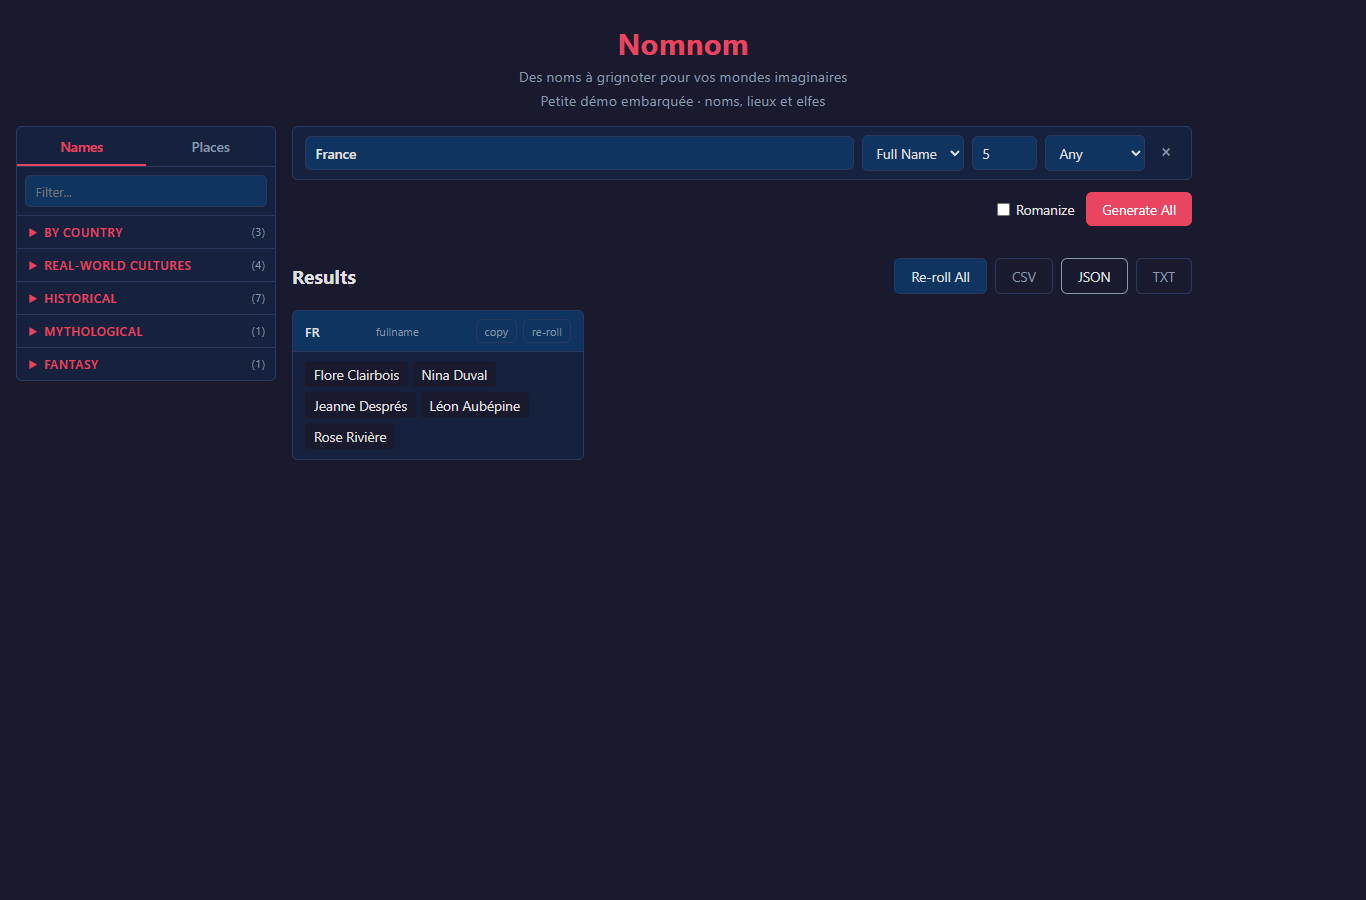
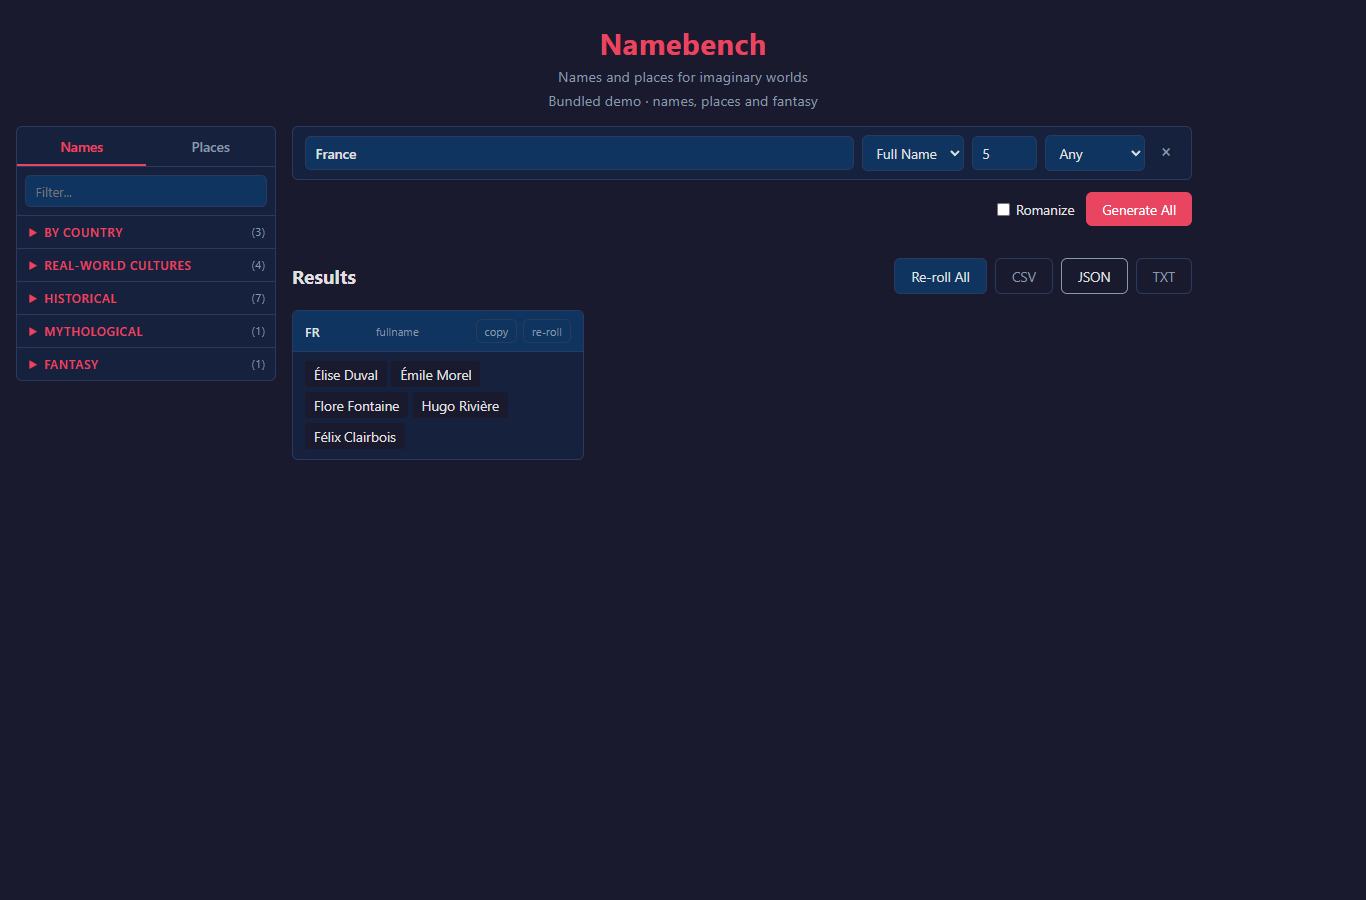
Rename project to Namebench and use English throughout

Changed region(s): [[0.369, 0.0311, 0.6149, 0.1244], [0.2152, 0.4044, 0.369, 0.4978]]

diff --git a/webapp/templates/index.html b/webapp/templates/index.html
@@ -3,15 +3,15 @@
 <head>
 <meta charset="UTF-8">
 <meta name="viewport" content="width=device-width, initial-scale=1.0">
-<title>Nomnom</title>
+<title>Namebench</title>
 <link rel="stylesheet" href="/static/style.css">
 </head>
 <body>
 
 <header>
-  <h1>Nomnom</h1>
-  <p class="subtitle">Des noms à grignoter pour vos mondes imaginaires</p>
-<p class="subtitle">{% if demo %}Petite démo embarquée · noms, lieux et elfes{% else %}Base mondiale locale{% endif %}</p>
+  <h1>Namebench</h1>
+  <p class="subtitle">Names and places for imaginary worlds</p>
+<p class="subtitle">{% if demo %}Bundled demo · names, places and fantasy{% else %}Local world dataset{% endif %}</p>
 </header>
 
 <div class="app-shell">

diff --git a/tests/test_demo.py b/tests/test_demo.py
@@ -53,7 +53,7 @@ def test_bulk_and_transliteration(demo):
 def test_web_catalogue_and_generation(demo):
     app = create_app(demo, demo=True)
     client = app.test_client()
-    assert b"Nomnom" in client.get("/").data
+    assert b"Namebench" in client.get("/").data
     catalog = client.get("/api/catalog").get_json()
     assert {d["id"] for d in catalog["domains"]} == {"names", "places"}
     for domain in catalog["domains"]:
@@ -97,7 +97,7 @@ def test_unknown_style_does_not_crash_batch(demo):
 
 def test_missing_database_has_actionable_error(tmp_path):
     configure_database(tmp_path / "absent.db")
-    with pytest.raises(ValueError, match="nomnom demo"):
+    with pytest.raises(ValueError, match="namebench demo"):
         generate("FR")
     assert not (tmp_path / "absent.db").exists()
 
@@ -105,7 +105,7 @@ def test_missing_database_has_actionable_error(tmp_path):
 def test_full_build_honours_database_override(tmp_path, monkeypatch):
     import namegen.importers as importers
     destination = tmp_path / "new" / "names.db"
-    monkeypatch.setenv("NOMNOM_DB_PATH", str(destination))
+    monkeypatch.setenv("NAMEBENCH_DB_PATH", str(destination))
     for name in ("import_curated", "import_fantasy", "import_forebears",
                  "import_philipperemy", "import_geonames"):
         monkeypatch.setattr(importers, name, lambda db, data_dir: None)

diff --git a/namegen/demo.py b/namegen/demo.py
@@ -37,17 +37,17 @@ def build_demo(path):
 
 
 def main(argv=None):
-    parser = argparse.ArgumentParser(prog="nomnom demo")
+    parser = argparse.ArgumentParser(prog="namebench demo")
     parser.add_argument("--port", type=int, default=5001)
     parser.add_argument("--database", type=Path, help="Use a full database instead of the bundled demo")
-    parser.add_argument("--demo-database", type=Path, default=Path.home() / ".nomnom" / "demo-v1.db")
+    parser.add_argument("--demo-database", type=Path, default=Path.home() / ".namebench" / "demo-v1.db")
     args = parser.parse_args(argv)
     path = args.database.resolve() if args.database else build_demo(args.demo_database)
     if not path.is_file():
         parser.error(f"Database not found: {path}")
     from webapp.app import create_app
     app = create_app(path, demo=args.database is None)
-    print(f"Nomnom: http://127.0.0.1:{args.port} ({'demo' if args.database is None else 'full database'})")
+    print(f"Namebench: http://127.0.0.1:{args.port} ({'demo' if args.database is None else 'full database'})")
     app.run(host="127.0.0.1", port=args.port, debug=False, threaded=False)
 
 

diff --git a/namegen/cli.py b/namegen/cli.py
@@ -52,7 +52,7 @@ def cmd_stats(args):
 
     db = NameDB()
     if not db.db_path.is_file():
-        raise SystemExit("Database missing. Start with `nomnom demo`.")
+        raise SystemExit("Database missing. Start with `namebench demo`.")
     stats = db.stats()
     print("Database statistics:")
     for table, count in stats.items():
@@ -116,7 +116,8 @@ def main():
         if hasattr(stream, "reconfigure"):
             stream.reconfigure(encoding="utf-8")
     parser = argparse.ArgumentParser(
-        description="RPG Name Generator — World-Building Onomastics Engine",
+        prog="namebench",
+        description="Namebench — personal names and place names for imaginary worlds",
     )
 
     # Mode flags

diff --git a/namegen/api.py b/namegen/api.py
@@ -39,8 +39,8 @@ def _get_registry() -> StyleRegistry:
         if _db is None:
             _db = NameDB()
         if not _db.db_path.is_file():
-            raise ValueError("Name database missing. Run `nomnom demo` for the bundled demo, "
-                             "or build the full database with `nomnom --build`.")
+            raise ValueError("Name database missing. Run `namebench demo` for the bundled demo, "
+                             "or build the full database with `namebench --build`.")
         zones = OnomasticResolver()
         _catalog = Catalog(_db, zones)
         _registry = StyleRegistry(_db, zones, _catalog)

diff --git a/namegen/importers/__init__.py b/namegen/importers/__init__.py
@@ -13,11 +13,11 @@ def build_all(db_path=None, data_dir=None):
     import os
     from namegen.db import NameDB, DB_PATH
 
-    db_path = Path(db_path or os.environ.get("NOMNOM_DB_PATH") or DB_PATH).expanduser().resolve()
+    db_path = Path(db_path or os.environ.get("NAMEBENCH_DB_PATH") or DB_PATH).expanduser().resolve()
     if db_path.exists():
         raise FileExistsError(
             f"Refusing to rebuild an existing database: {db_path}. "
-            "Set NOMNOM_DB_PATH to a new file."
+            "Set NAMEBENCH_DB_PATH to a new file."
         )
     data_dir = Path(data_dir) if data_dir else db_path.parent.parent
 

diff --git a/namegen/db.py b/namegen/db.py
@@ -65,7 +65,7 @@ class NameDB:
     """Unified access to all name data stored in SQLite."""
 
     def __init__(self, db_path: Path | str | None = None):
-        self.db_path = Path(db_path or os.environ.get("NOMNOM_DB_PATH") or DB_PATH).expanduser().resolve()
+        self.db_path = Path(db_path or os.environ.get("NAMEBENCH_DB_PATH") or DB_PATH).expanduser().resolve()
         self._conn: Optional[sqlite3.Connection] = None
 
     @property

diff --git a/namegen.py b/namegen.py
@@ -1,4 +1,4 @@
-"""Compatibility entry point; installed command: nomnom."""
+"""Compatibility entry point; installed command: namebench."""
 from namegen.cli import main
 
 if __name__ == "__main__":

diff --git a/webapp/app.py b/webapp/app.py
@@ -1,4 +1,4 @@
-"""Nomnom local web application."""
+"""Namebench local web application."""
 from __future__ import annotations
 
 from flask import Flask, jsonify, request, render_template

diff --git a/webapp/__init__.py b/webapp/__init__.py
@@ -1,1 +1,1 @@
-"""Nomnom local browser application."""
+"""Namebench local browser application."""

diff --git a/README.md b/README.md
@@ -1,13 +1,12 @@
-# Nomnom
+# Namebench
 
-Des noms à grignoter pour vos mondes imaginaires. Petit projet provisoire de prénoms, patronymes et toponymes : pays, cultures, listes et générateurs fantasy.
+A small, standalone sandbox for personal names and place names. Pick a country, cultural style or fantasy generator, then generate and export a batch.
 
-![Démo locale](docs/images/demo.png)
+![Local demo](docs/images/demo.png)
 
+## Run the demo
 
-## Une démo qui démarre sans les gigas
-
-Python 3.11+ (3.12 recommandé). Sous Windows : double-cliquer sur **`demo.cmd`**. Le premier lancement crée `.venv` et installe le projet ; ouvrir **http://127.0.0.1:5001** et garder le terminal ouvert.
+Python 3.12 is the validated version. On Windows, double-click **`demo.cmd`**, then open **http://127.0.0.1:5001**. The first launch creates a private virtual environment and installs the pinned dependencies. Keep the terminal open.
 
 ```powershell
 python -m venv .venv
@@ -16,11 +15,13 @@ python -m venv .venv
 .venv\Scripts\python.exe -m namegen demo
 ```
 
-Sous Linux/macOS : utiliser `.venv/bin/python`. La petite base est construite depuis un échantillon écrit à la main, embarqué dans le paquet, puis conservée dans `~/.nomnom/demo-v1.db`. Aucun scraping ni téléchargement de données n'est nécessaire. Tester France/GB/Japon, elfes, lieux et export JSON/CSV/TXT. Tous les styles du moteur ne sont pas présents dans cet échantillon.
+On Linux/macOS, use `.venv/bin/python` instead. The installed command is `namebench`.
 
-## Base mondiale locale
+The demo builds a small SQLite database from a bundled, hand-authored sample. It requires no world dataset, scraper, API key or sibling project. Try France, Britain, Japan, fantasy names, place names and JSON/CSV/TXT export. Only a subset of the full style catalogue is represented in this sample.
 
-La base complète est **séparée** de la démo et ignorée par Git. Si `data/names.db` existe :
+## Use the world dataset
+
+The full local database is separate from the demo and excluded from Git:
 
 ```powershell
 .venv\Scripts\python.exe -m namegen demo --database data/names.db
@@ -30,43 +31,52 @@ La base complète est **séparée** de la démo et ignorée par Git. Si `data/na
 .venv\Scripts\python.exe -m namegen french surname 100000 --bulk
 ```
 
-`NOMNOM_DB_PATH` permet de sélectionner la base pour le CLI et l'API Python. Pour interroger la petite démo depuis le CLI : définir cette variable sur `~/.nomnom/demo-v1.db` après son premier lancement. `--stats` décrit la base sélectionnée, `--list` les styles du moteur.
+`NAMEBENCH_DB_PATH` selects the database for CLI and Python calls. The default full-data path is `data/names.db` in the checkout. The demo cache is `~/.namebench/demo-v1.db`; point `NAMEBENCH_DB_PATH` there to query the sample from the CLI after its first launch.
 
-L'instantané local vérifié le 21 octobre 2026 contient 8 634 303 entrées de noms, 10 170 527 lieux, 731 générateurs fantasy et 1 421 entrées sélectionnées, pour 1,21 Go. Ce ne sont pas des nombres de noms uniques. Le clone Git contient le code et la démo, **pas** cette base.
+The local snapshot checked on October 21, 2026 contains **8,634,303 name entries**, **10,170,527 places**, **731 fantasy generators** and **1,421 curated entries**, occupying 1.21 GB. These are row counts, not distinct-name counts. The repository ships the code and small demo, not the world database.
 
-Voir [les données et leur reconstruction](docs/data.md) avant de reconstruire une base complète. Le build refuse une base existante et exige un nouveau fichier de sortie.
+See [data sources and rebuilding](docs/data.md). Builds require a new output file and refuse to overwrite an existing database.
 
-## Python et codes personnalisés
+## Python and custom styles
 
 ```python
 from namegen import generate, generate_bulk
+
 names = generate("french", "fullname", 5)
 for name in generate_bulk("elf", "surname", 100000):
     pass
 ```
 
-`namegen/onomastic_zones.json` définit cultures, superpositions et opérations d'ensembles. `namegen/catalog.json` définit groupes et abréviations : pays ISO (`FR`, `JP`), cultures (`french`), fantasy (`elf`, `sw.wookiees`), listes (`demons`). Les dictionnaires sélectionnés restent dans `defaultDictionaries.json`.
+- `namegen/onomastic_zones.json`: cultural groups, historical overlays and country-set operations.
+- `namegen/catalog.json`: UI groups and aliases, including `FR`, `JP`, `french`, `elf` and `sw.wookiees`.
+- `defaultDictionaries.json`: curated source lists.
 
-## Contrat et limites
+## API and limits
 
-- Types : `forename`, `surname`, `fullname`, `place` ; genre `M`, `F` ou absent ; romanisation facultative.
-- HTTP : `GET /api/catalog`, `GET /api/styles`, `POST /api/generate` avec `{"requests":[{"style":"FR","type":"fullname","count":5}]}`. Maximum 20 lignes de 100 noms ; entrées invalides : HTTP 400. Les erreurs par style sont dans chaque résultat.
-- Un petit pool peut rendre moins de noms que demandé ; `returned_count` précise le résultat HTTP. Le bulk peut répéter ; `--unique` est plafonné au pool disponible.
-- Les styles historiques sélectionnent surtout des pays actuels : aucune authenticité historique garantie. Les corpus mondiaux peuvent contenir du bruit.
-- Le hasard SQLite n'est pas reproductible par une graine Python. Aucun contrat de replay déterministe à ce stade.
-- Markov et hybride sont des stratégies expérimentales présentes dans le code, non sélectionnées par le résolveur public actuel.
-- Serveur local de démonstration, sans debug ni reloader. Aucun lien avec Cousinade ou un moteur de cartes.
+`GET /api/catalog`, `GET /api/styles`, and `POST /api/generate`:
 
-## Vérifier
+```json
+{"requests":[{"style":"FR","type":"fullname","count":5}]}
+```
+
+Types are `forename`, `surname`, `fullname` and `place`; gender is `M`, `F` or absent. Transliteration is optional. HTTP requests accept up to 20 rows of 100 names. Invalid input returns HTTP 400; individual style errors appear in the matching result.
+
+A small pool can return fewer names than requested; HTTP responses expose `returned_count`. Bulk sampling can repeat names; unique mode is capped by the available pool. Historical styles mostly select present-day country groups and do not establish historical authenticity. Real datasets can contain noisy entries.
+
+SQLite randomness is not controlled by a Python seed. There is no deterministic replay contract yet. Markov and hybrid strategies remain experimental code, outside the public resolver. Dataset names retain their original languages and writing systems.
+
+## Check the project
 
 ```powershell
 .venv\Scripts\python.exe -m pytest
 .venv\Scripts\python.exe -m build
 npm ci
-# Démo lancée sur 5001, Edge disponible sous Windows.
+# Start the demo first. Edge is the default browser on Windows.
 npm run test:browser
 ```
 
-`STUDIO_BROWSER` choisit un autre exécutable Chromium/Edge et `NOMNOM_URL` une autre URL. Captures : `output/screenshots/` (ignoré).
+`STUDIO_BROWSER` selects a Chromium/Edge executable; `NAMEBENCH_URL` selects another server URL. Screenshots go to ignored `output/screenshots/`.
 
-L'historique Git du générateur d'origine est conservé. Les grandes données locales restent à leur place. Voir [l'origine du projet](PROVENANCE.md).
+[Validation](docs/validation.md) · [Provenance](PROVENANCE.md)
+
+This is a local prototype. Its repository and history are independent of Lineage Lab and any map engine.

diff --git a/docs/data.md b/docs/data.md
@@ -1,28 +1,30 @@
-# Données de Nomnom
+# Data sources
 
-La démo utilise `namegen/data/demo.json`, un petit échantillon écrit à la main ; il n'est pas extrait des corpus mondiaux. Sa base SQLite est distincte de `data/names.db`.
+The bundled demo reads `namegen/data/demo.json`, a hand-authored sample. It is not a scrape or an extract of the world database. Its cache is separate from `data/names.db`.
 
-Les grandes sources locales et les produits de scraping sont exclus de Git :
+Large source data and generated databases are excluded from Git.
 
-| Source | Chemin attendu à la racine |
+| Source | Expected path at the checkout root |
 | --- | --- |
-| Forebears | `forebears_checkpoint/results.jsonl` (entrée effective de l'importeur) |
+| Forebears | `forebears_checkpoint/results.jsonl` |
 | name-dataset | `philipperemy__name-dataset/` |
 | GeoNames | `allCountries.zip` |
 | Snake4life fantasy-names | `Snake4life__fantasy-names/` |
-| Listes sélectionnées | `defaultDictionaries.json` (inclus) |
+| Curated lists | `defaultDictionaries.json` (included) |
 
-Le JSON `forebears_names.json` est un produit local de compilation ; le build actuel lit le checkpoint JSONL. Ne pas le confondre avec l'entrée réelle.
+The current Forebears importer reads the JSONL checkpoint. `forebears_names.json` is a compiled local artifact, not its build input.
 
-Après acquisition des sources et vérification de leurs conditions d'utilisation, depuis la racine d'un clone, créer une **nouvelle base**, sans modifier l'existante :
+## Rebuild into a new file
+
+Acquire the required source data, then run from the checkout root:
 
 ```powershell
-$env:NOMNOM_DB_PATH="$PWD/data/names-rebuilt.db"
+$env:NAMEBENCH_DB_PATH="$PWD/data/names-rebuilt.db"
 .venv\Scripts\python.exe -m namegen --build
 .venv\Scripts\python.exe -m namegen --stats
 .venv\Scripts\python.exe -m namegen demo --database data/names-rebuilt.db
 ```
 
-Installer `.[scrape]` uniquement pour utiliser les scripts de collecte. Le lancement normal n'utilise pas ces scripts. Les importeurs indiquent les sources absentes ; une base construite sans toutes les sources sera partielle. Le build refuse désormais toute base existante : choisir un nouveau fichier pour éviter les doublons des importeurs.
+The build refuses an existing output database. Several importers append rows, so repeat imports must use a new file. Missing sources are reported and skipped; such a build will be partial.
 
-La présence des scripts et d'une base locale ne vaut pas autorisation de redistribuer les données. Le dépôt ne distribue aucun gros corpus ; les provenances et avis des sources doivent accompagner toute distribution séparée.
+Install `.[scrape]` only to run the collection scripts. Normal demo use does not invoke them. Source datasets retain their own provenance and redistribution terms; the repository does not bundle them. Original-language names and diacritics are data, not untranslated interface text.
